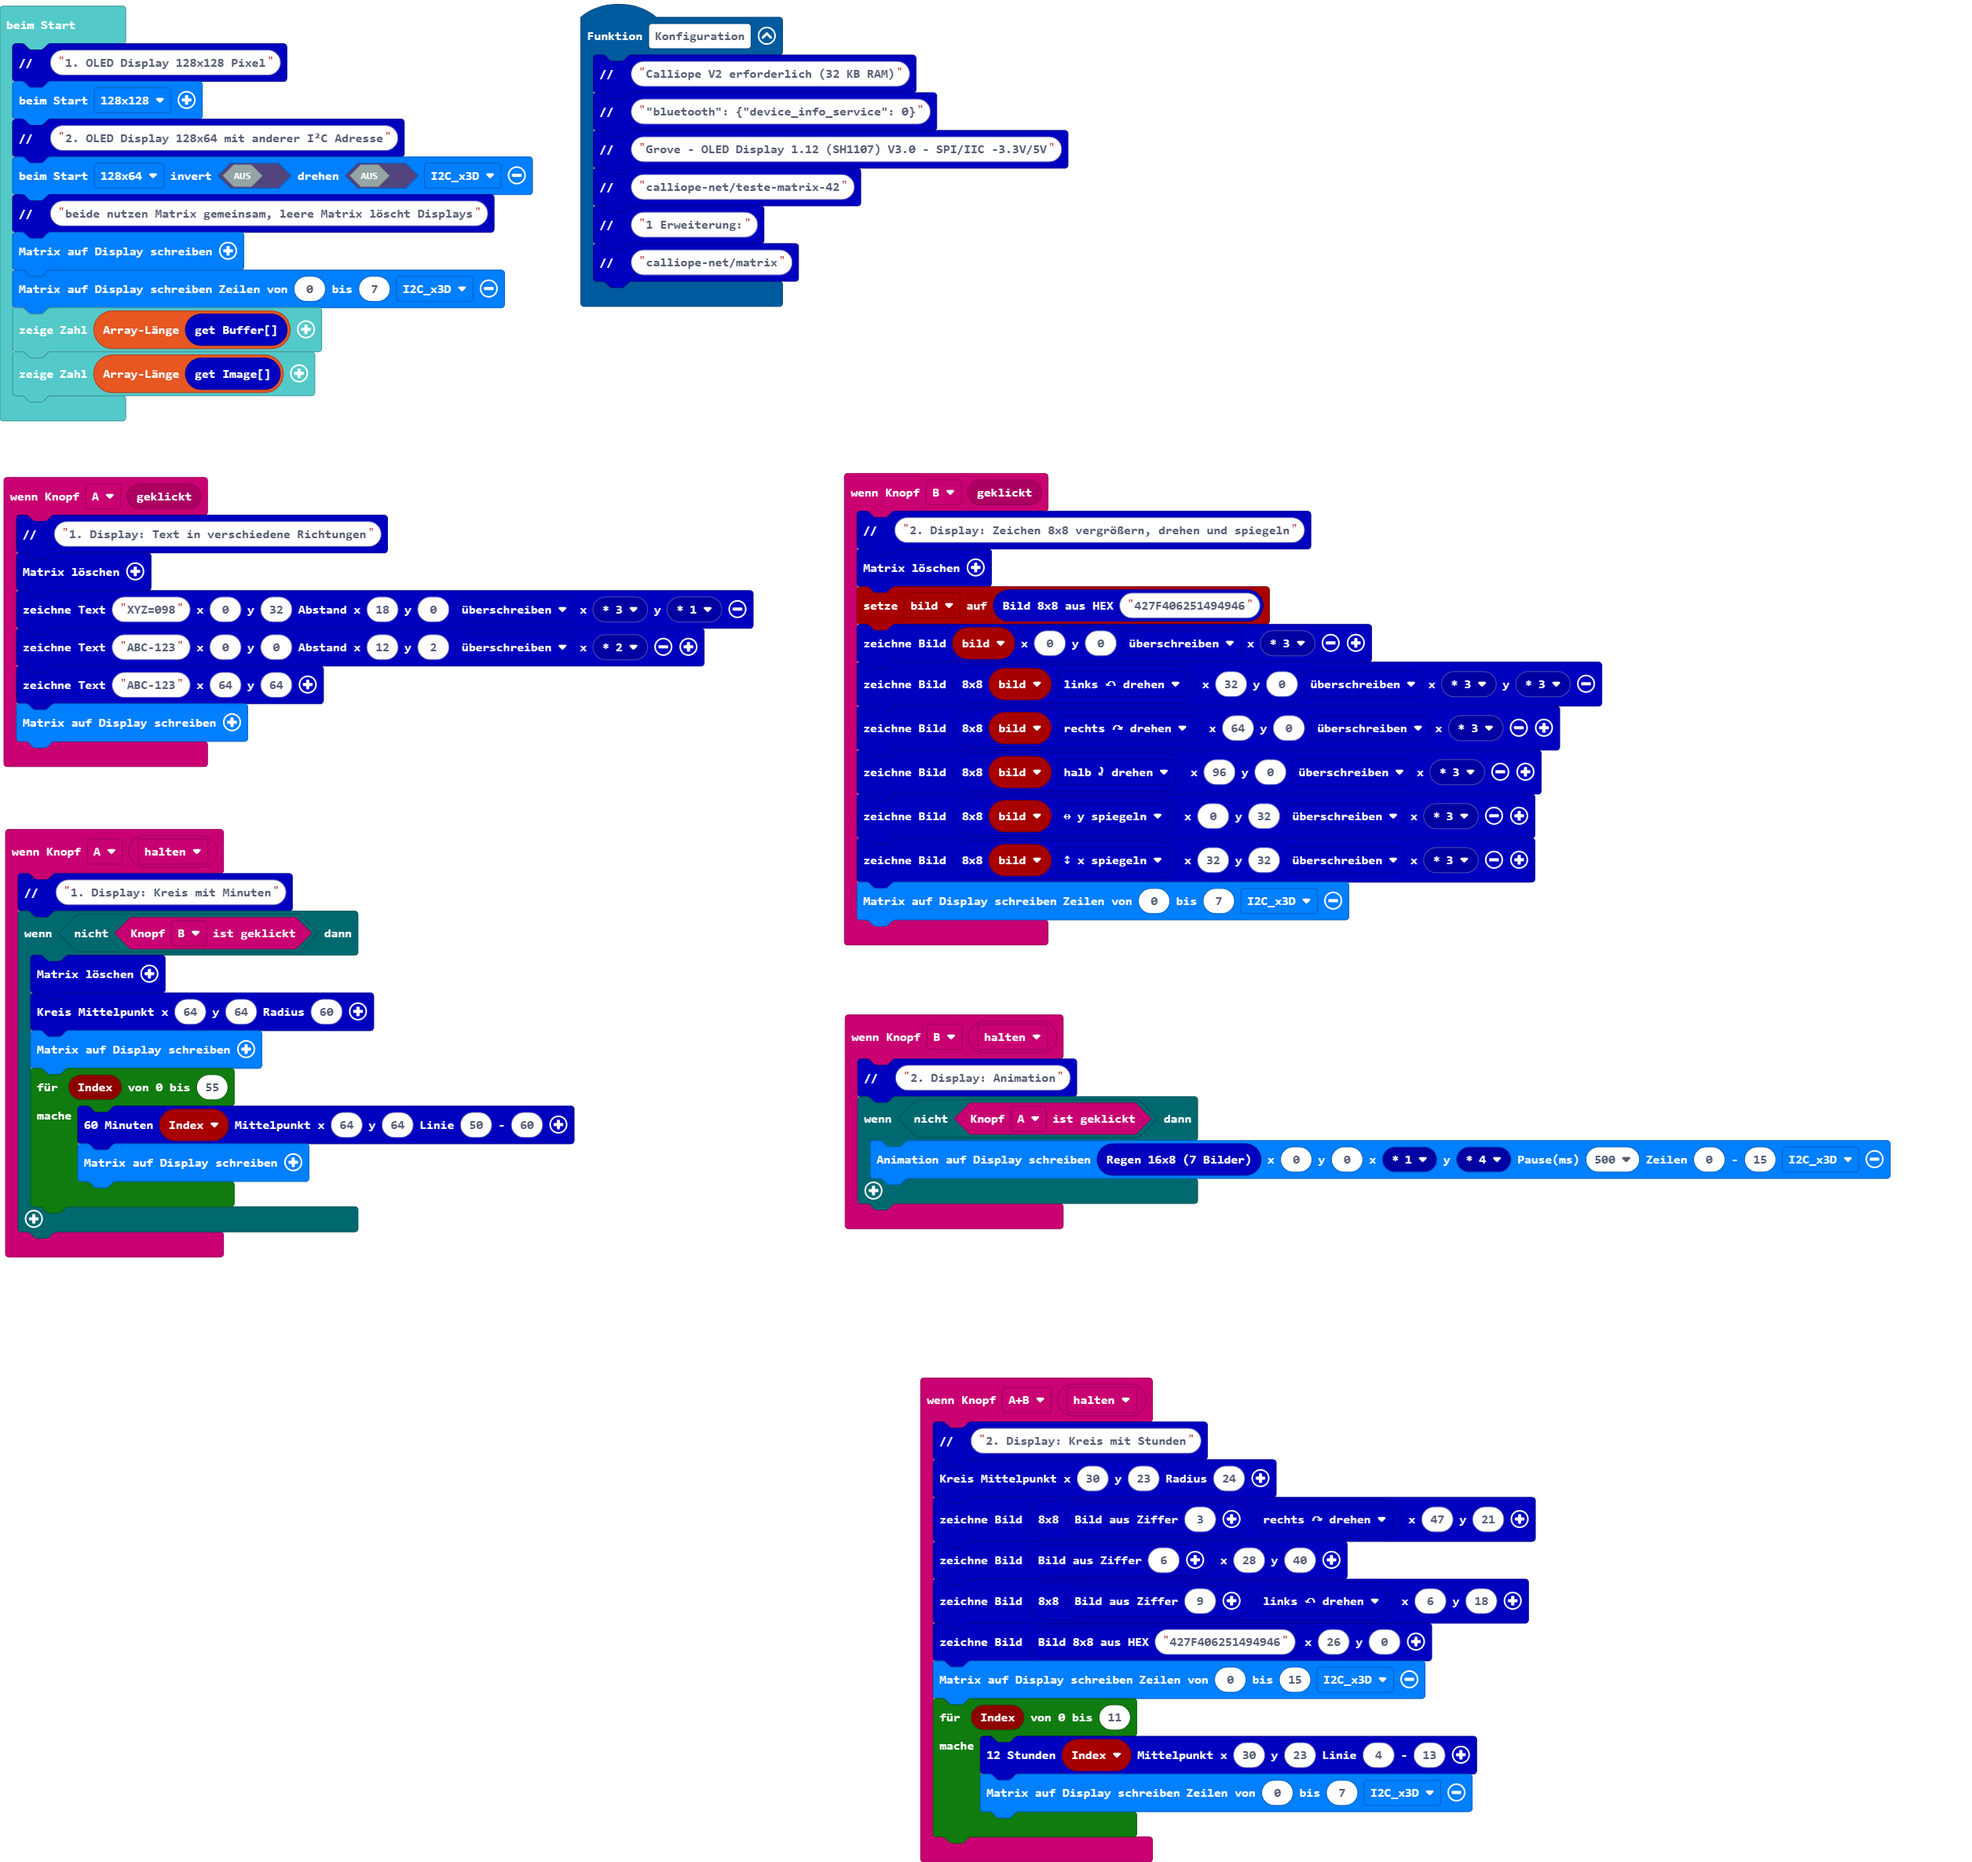
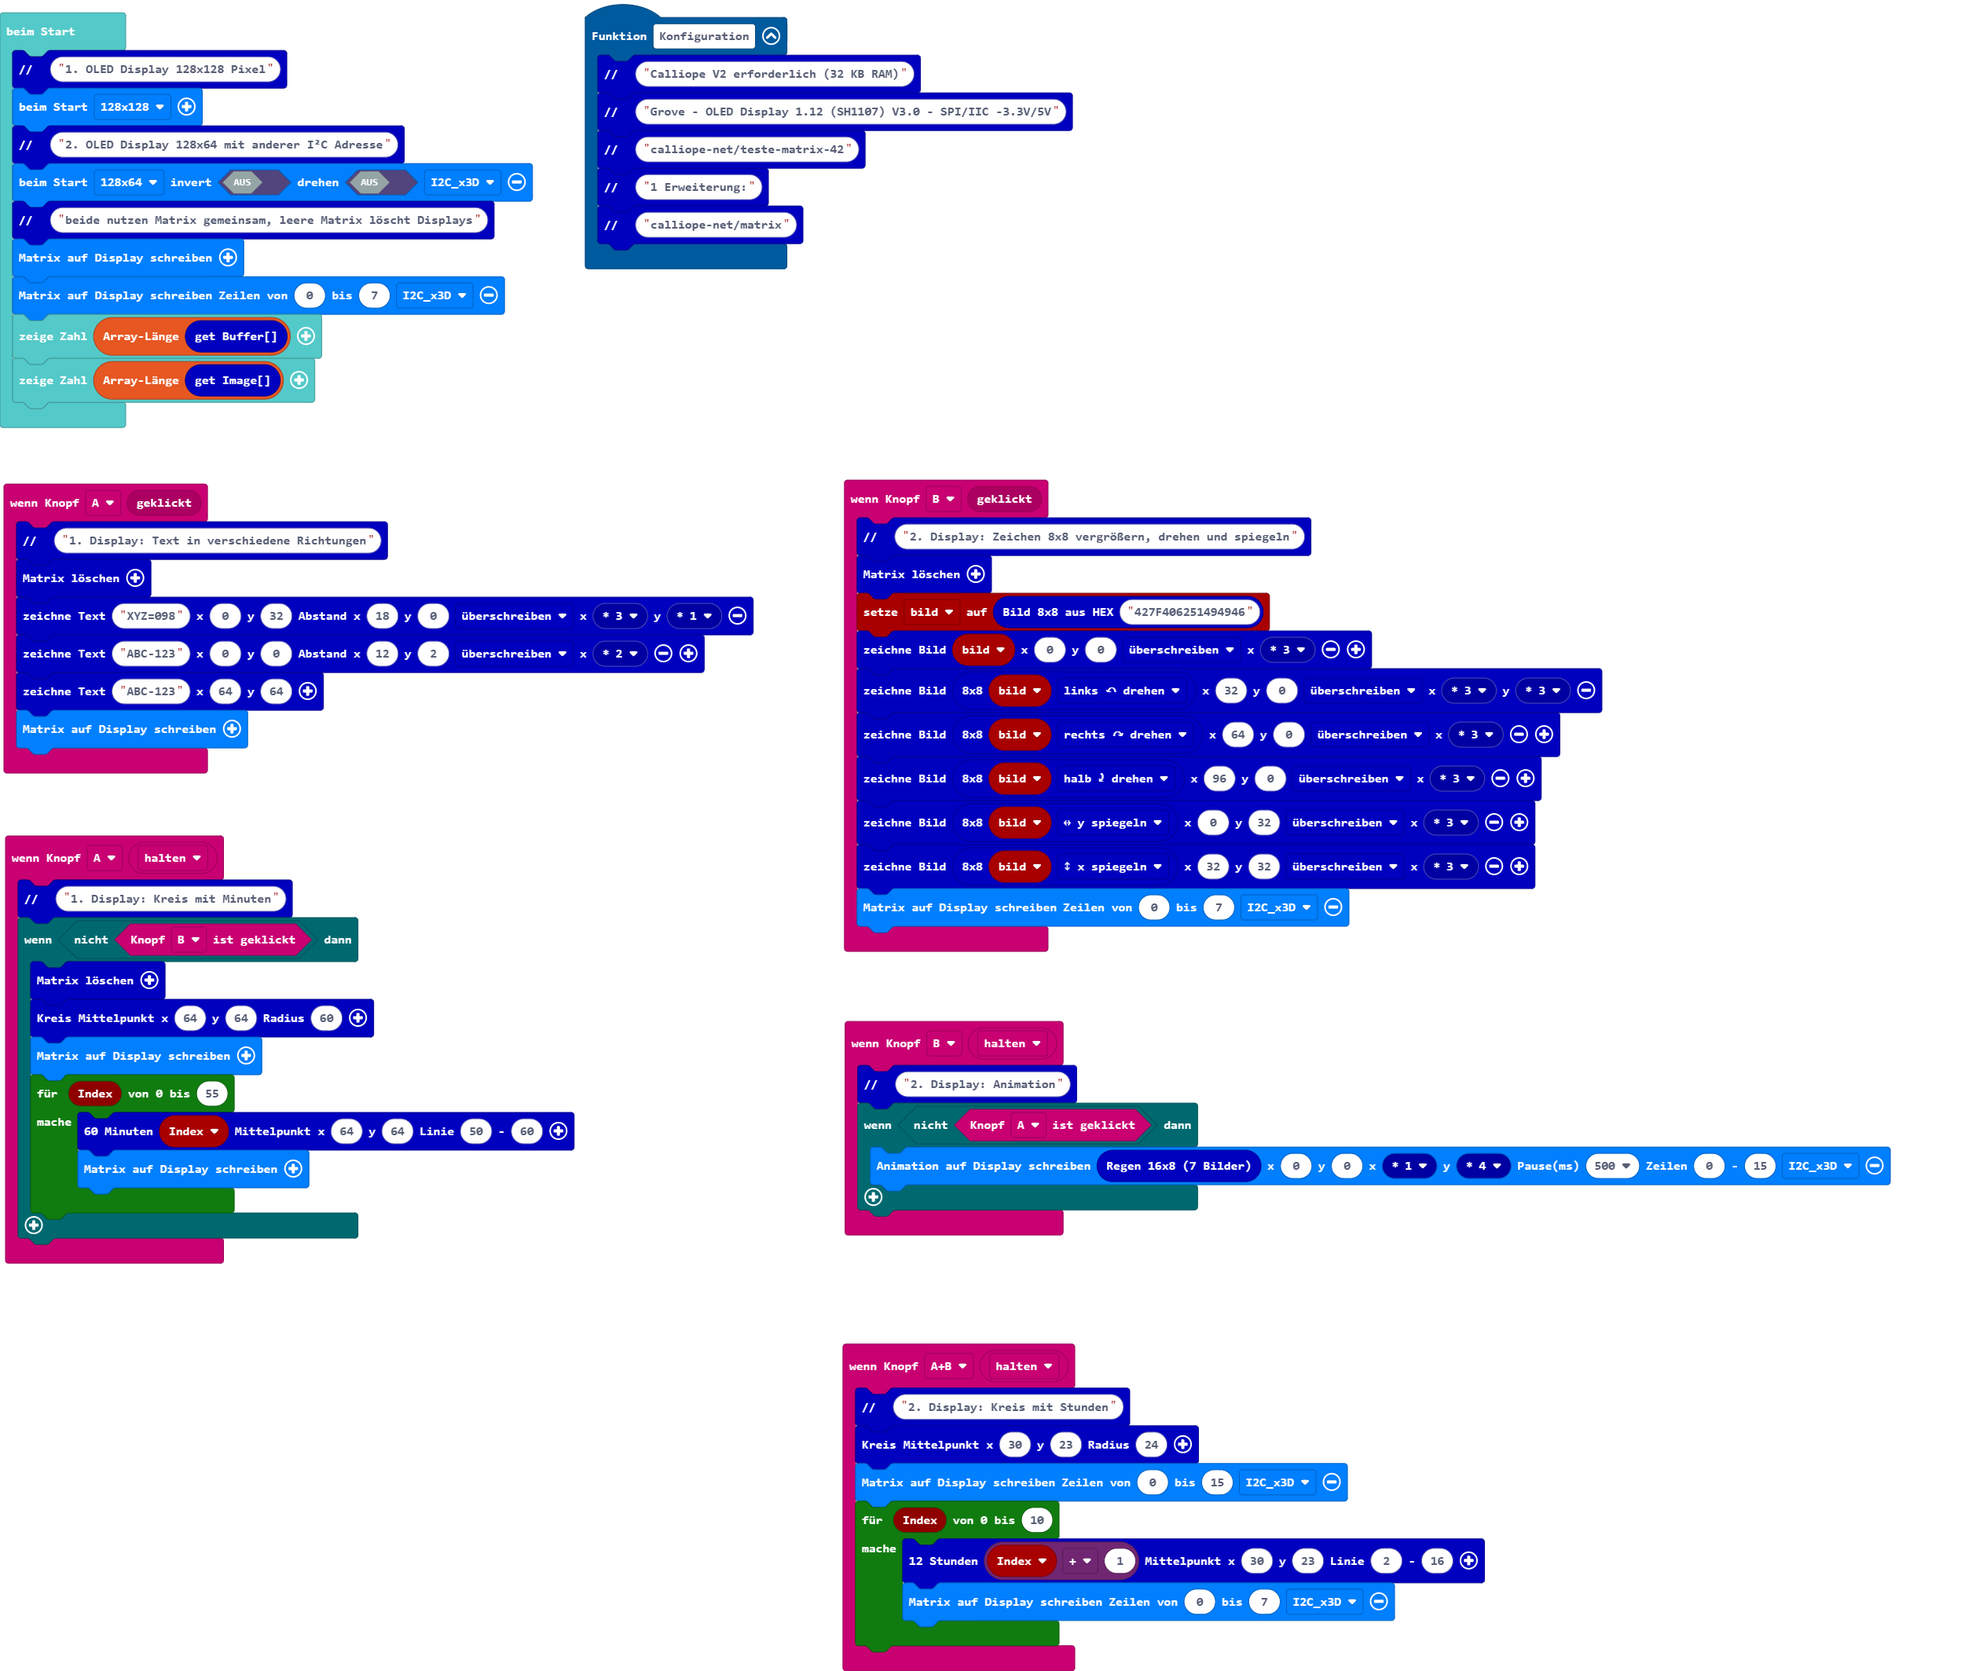
'1.4.2024, 16:43:15 Aktualisiere main.blocks, main.ts ' wiederherstellen '

Changed region(s): [[0.404, 0.2482, 0.9633, 1.0], [0.0, 0.0, 0.5594, 0.7757]]

diff --git a/main.ts b/main.ts
@@ -38,7 +38,6 @@ input.onButtonEvent(Button.B, ButtonEvent.Hold, function () {
 })
 function Konfiguration () {
     matrix.comment("Calliope V2 erforderlich (32 KB RAM)")
-    matrix.comment("\"bluetooth\": {\"device_info_service\": 0}")
     matrix.comment("Grove - OLED Display 1.12 (SH1107) V3.0 - SPI/IIC -3.3V/5V")
     matrix.comment("calliope-net/teste-matrix-42")
     matrix.comment("1 Erweiterung:")
@@ -47,13 +46,9 @@ function Konfiguration () {
 input.onButtonEvent(Button.AB, ButtonEvent.Hold, function () {
     matrix.comment("2. Display: Kreis mit Stunden")
     matrix.rasterCircle(30, 23, 24)
-    matrix.writeImage(matrix.imageDrehen(matrix.digitImage(3), matrix.eZeichenDrehen.rechts), 47, 21)
-    matrix.writeImage(matrix.digitImage(6), 28, 40)
-    matrix.writeImage(matrix.imageDrehen(matrix.digitImage(9), matrix.eZeichenDrehen.links), 6, 18)
-    matrix.writeImage(matrix.hexImage8x8("427F406251494946"), 26, 0)
     matrix.writeDisplay(0, 15, matrix.eI2C.I2C_x3D)
-    for (let Index = 0; Index <= 11; Index++) {
-        matrix.hour_mark(Index, 30, 23, 4, 13)
+    for (let Index = 0; Index <= 10; Index++) {
+        matrix.hour_mark(Index + 1, 30, 23, 2, 16)
         matrix.writeDisplay(0, 7, matrix.eI2C.I2C_x3D)
     }
 })
